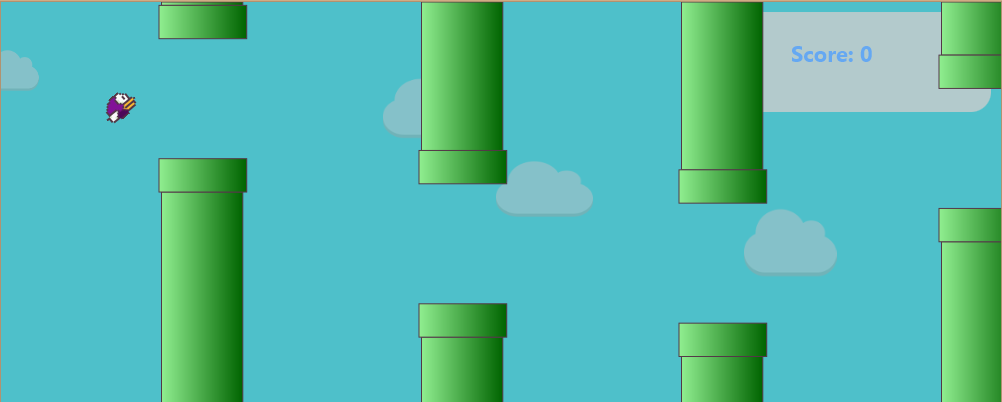
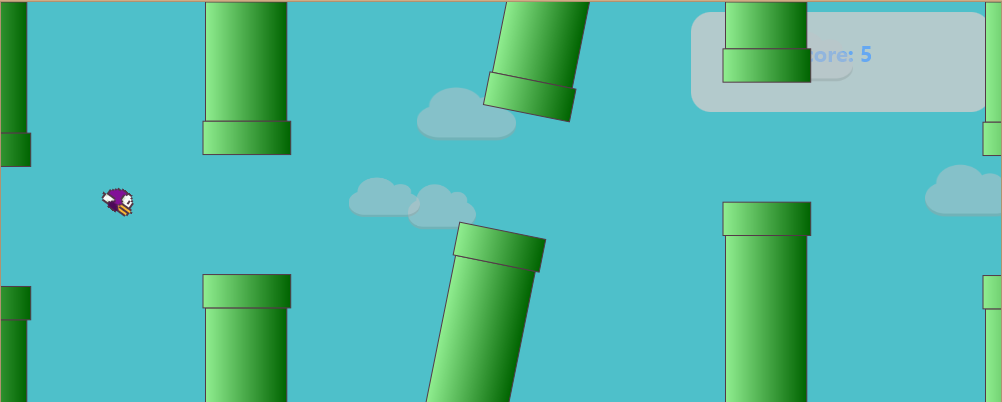
New rotated tubes

diff --git a/dist/FlappyBird.html b/dist/FlappyBird.html
@@ -4,7 +4,7 @@
     function launchApplication(jnlpfile) {
         dtjava.launch(            {
                 url : 'FlappyBird.jnlp',
[2 lines of base64/hex data omitted]
             },
             {
                 javafx : '8.0+'
@@ -23,7 +23,7 @@
                 placeholder : 'javafx-app-placeholder',
                 width : 800,
                 height : 600,
[2 lines of base64/hex data omitted]
             },
             {
                 javafx : '8.0+'

diff --git a/src/flappybird/FlappyBird.java b/src/flappybird/FlappyBird.java
@@ -23,7 +23,6 @@ import javafx.scene.transform.Rotate;
 import javafx.stage.Stage;
 import javafx.util.Duration;
 
-
 /**
  *
  * @author Tareq Si Salem
@@ -149,13 +148,7 @@ public class FlappyBird extends Application {
         for (int i = 0; i < 5; i++) {
             SimpleDoubleProperty y = new SimpleDoubleProperty(0);
             y.set(root.getHeight() * Math.random() / 2.0);
-            TwoTubes tube;
-            if (i == 2) {
-                tube = new TwoTubes(y, root, true);
-            } else {
-                tube = new TwoTubes(y, root, false);
-
-            }
+            TwoTubes tube = new TwoTubes(y, root, false, false);
             tube.setTranslateX(i * (width / 4 + 10) + 400);
             listOfTubes.add(tube);
             root.getChildren().add(tube);
@@ -188,10 +181,12 @@ public class FlappyBird extends Application {
                     SimpleDoubleProperty y = new SimpleDoubleProperty(0);
                     y.set(root.getHeight() * Math.random() / 2.0);
                     TwoTubes tube;
-                    if (Math.random() < 0.5) {
-                        tube = new TwoTubes(y, root, true);
+                    if (Math.random() < 0.4) {
+                        tube = new TwoTubes(y, root, true, false);
+                    } else if (Math.random() > 0.85) {
+                        tube = new TwoTubes(y, root, true, true);
                     } else {
-                        tube = new TwoTubes(y, root, false);
+                        tube = new TwoTubes(y, root, false, false);
                     }
                     tube.setTranslateX(listOfTubes.get(listOfTubes.size() - 1).getTranslateX() + (width / 4 + 10));
                     listOfTubes.add(tube);

diff --git a/src/flappybird/TwoTubes.java b/src/flappybird/TwoTubes.java
@@ -1,4 +1,3 @@
-
 package flappybird;
 
 import javafx.animation.KeyFrame;
@@ -11,6 +10,7 @@ import javafx.scene.paint.CycleMethod;
 import javafx.scene.paint.LinearGradient;
 import javafx.scene.paint.Stop;
 import javafx.scene.shape.Rectangle;
+import javafx.scene.transform.Rotate;
 import javafx.util.Duration;
 
 /**
@@ -28,9 +28,15 @@ public class TwoTubes extends Group {
     double oscillationCenter;
     Timeline animateTube;
     int frames = 0;
+    int rotateOffset = 0;
 
-    public TwoTubes(SimpleDoubleProperty gapLocation, Pane root, boolean animate) {
-
+    public TwoTubes(SimpleDoubleProperty gapLocation, Pane root, boolean animate, boolean rotate) {
+        if (rotate) {
+            setRotationAxis(Rotate.Z_AXIS);
+            setRotate(-25 + 50 * Math.random());
+            rotateOffset = 80;
+            setTranslateY(-40);
+        }
         topBody = new Rectangle();
         oscillationCenter = gapLocation.get();
         if (animate) {
@@ -53,7 +59,7 @@ public class TwoTubes extends Group {
         lowerHead.heightProperty().bind(root.heightProperty().divide(12));
         lowerBody = new Rectangle();
         lowerBody.widthProperty().bind(root.widthProperty().divide(12.3));
-        lowerBody.heightProperty().bind(root.heightProperty().add(-GAP - 50).subtract(gapLocation));
+        lowerBody.heightProperty().bind(root.heightProperty().add(-GAP - 50 + rotateOffset).subtract(gapLocation));
         lowerBody.setX(2.5);
         lowerHead.yProperty().bind(gapLocation.add(GAP).add(root.heightProperty().divide(12)));
         lowerBody.yProperty().bind(gapLocation.add(GAP).add(root.heightProperty().divide(6)));
